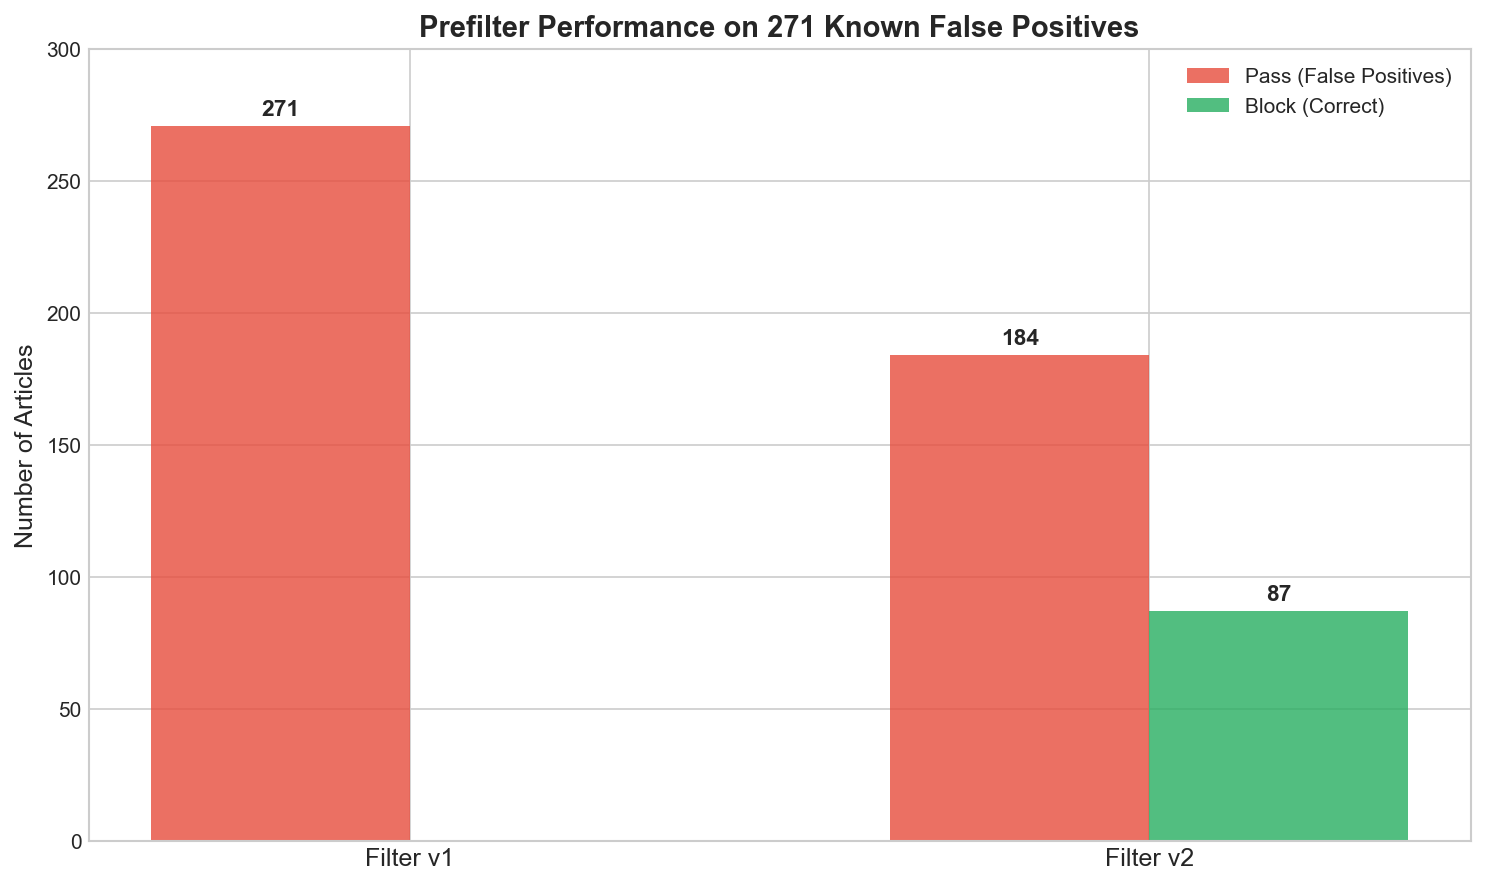
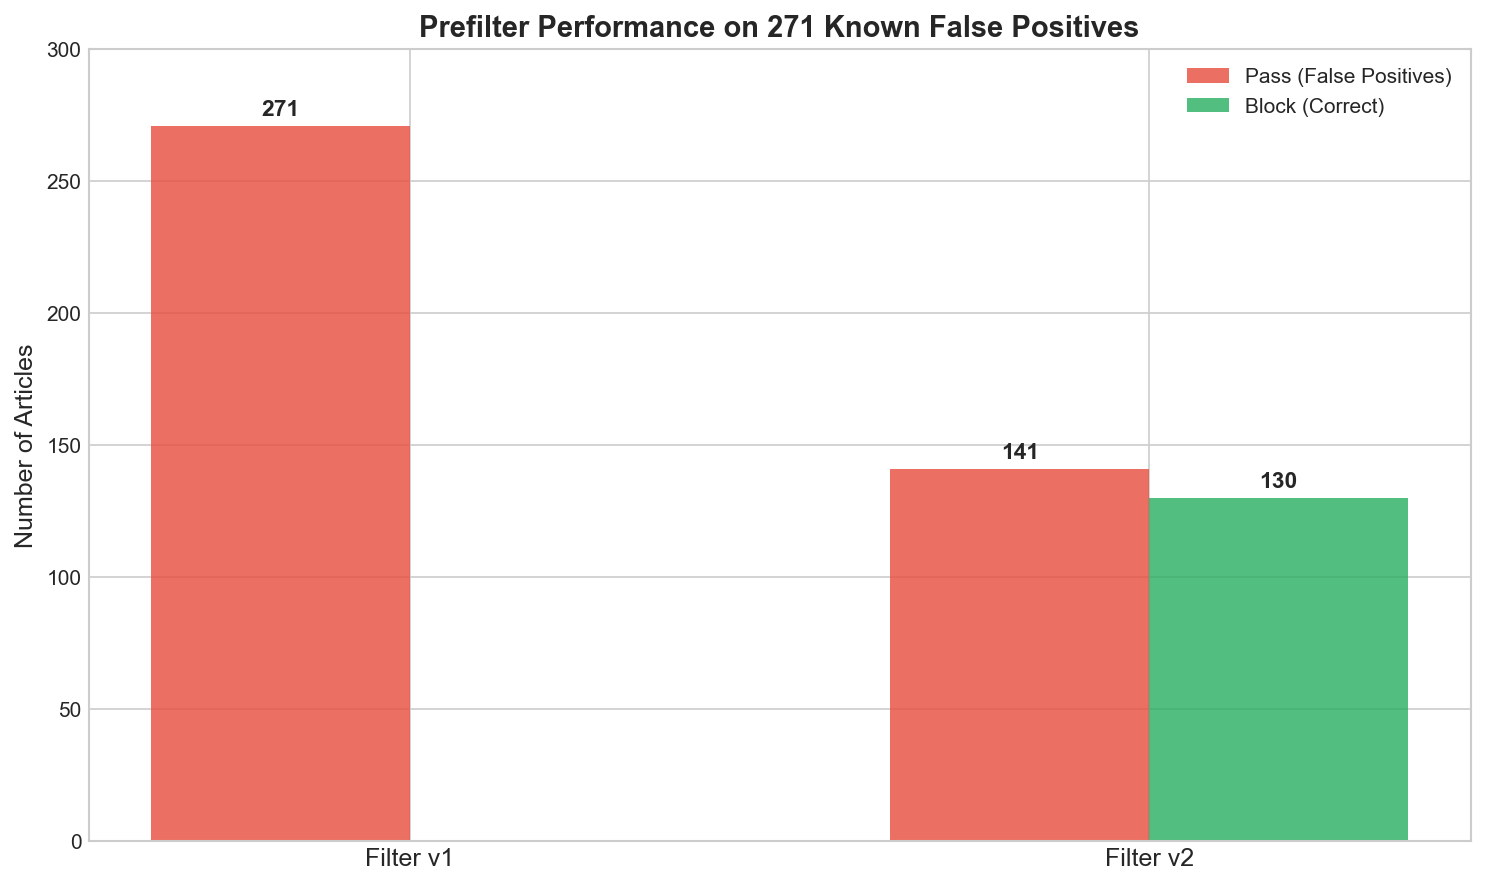
Update sustainability_technology prefilter to v2.1 with loosened patterns
v2.1 changes:
- Add product deals exclusion (Black Friday, promo codes, etc.)
- Add trade show patterns (CES/IFA/MWC hands-on coverage)
- Remove overly aggressive patterns that blocked legitimate content:
  - transformer (electrical transformers for grid)
  - benchmark (ESG benchmarks)
  - tutorial (DIY sustainability guides)
  - Dyson (makes sustainable products)
  - smart refrigerator (energy efficiency)
  - naval (offshore wind, naval renewable energy)
  - tank (think tanks)
- Expand sustainability override keywords (offshore wind, EV models)
- Philosophy: "When in doubt, let it through"

Test results on 271 known false positives:
- v2.1 blocks 99 FPs (36.5% improvement over v1)
- More permissive than v2.0 to avoid blocking good content

Changed region(s): [[0.7744, 0.5181, 0.9603, 0.7009], [0.5886, 0.3657, 0.7744, 0.5485]]

diff --git a/filters/sustainability_technology/v2/prefilter.py b/filters/sustainability_technology/v2/prefilter.py
@@ -1,8 +1,14 @@
 """
-Sustainability Technology Pre-Filter v2.0
+Sustainability Technology Pre-Filter v2.1
 
 This module defines a pre-filter for evaluating articles related to sustainability technology.
 Fast keyword-based filtering before model inference.
+
+v2.1 Changes:
+- Added product deals exclusion (shopping/price content)
+- Added trade show patterns (CES, IFA, MWC) with sustainability override
+- Expanded consumer electronics brands and product types
+- Expanded sustainability override keywords
 
 v2.0 Changes:
 - Added explicit exclusion patterns for off-topic content
@@ -18,55 +24,107 @@ from filters.common.base_prefilter import BasePreFilter
 class SustainabilityTechnologyPreFilterV2(BasePreFilter):
     """
     Pre-filter to evaluate articles on sustainability technology.
-    v2.0: Enhanced with explicit exclusion patterns.
+    v2.1: Enhanced exclusions + expanded override protection.
     """
-    VERSION = "2.0"
+    VERSION = "2.1"
 
     # Exclusion patterns - these block articles before sustainability check
+    # NOTE: Articles with SUSTAINABILITY_OVERRIDE keywords bypass these exclusions
+    # PHILOSOPHY: When in doubt, let it through - the LLM oracle handles edge cases
     EXCLUSION_PATTERNS = {
         # AI/ML infrastructure without sustainability application
+        # REMOVED: transformer (electrical transformers), benchmark (ESG benchmarks)
         'ai_ml_infrastructure': [
-            r'\b(transformer|attention mechanism|SOTA|state.of.the.art|benchmark)\b',
+            r'\b(attention mechanism|SOTA|state.of.the.art)\b',
             r'\b(diffusion model|GAN|VAE|autoencoder|neural network architecture)\b',
-            r'\b(LLM|language model|GPT-|BERT|Llama|Claude|Gemini|Mistral)\b',
+            r'\b(LLM|language model|GPT-\d|BERT|Llama|Claude|Gemini|Mistral)\b',
             r'\b(fine.?tun|pretrain|inference optimization|token generation)\b',
             r'\b(image classification|object detection|segmentation|computer vision)\b',
         ],
         # Consumer electronics reviews/shopping
+        # REMOVED: Dyson (makes sustainable products), GPU (data center efficiency)
         'consumer_electronics': [
+            # Smartphones
             r'\b(Galaxy S\d|iPhone \d|Pixel \d|OnePlus|Xiaomi Mi|Oppo Find|Vivo X|Redmi)\b',
-            r'\b(smartphone review|tablet review|phone deal|price drop|best phone)\b',
-            r'\b(GPU|RTX|gaming laptop|gaming PC|console)\b',
+            r'\b(smartphone review|tablet review|phone deal|best phone)\b',
+            # Gaming hardware (specific)
+            r'\b(RTX \d{4}|gaming laptop|gaming PC|PlayStation|Xbox)\b',
+            # Audio equipment
+            r'\b(soundbar|earbuds|headphones|wireless speaker|subwoofer|AirPods)\b',
+            # TV/Display (non-efficiency focused)
+            r'\b(OLED TV|Mini.?LED TV|QD.?OLED|TV review|television review)\b',
+            # Brands (removed Dyson)
+            r'\b(TCL|JLab|Anker|Narwal|Roborock|iRobot|Bose|Sony WH-|Sonos)\b',
+        ],
+        # Product deals/shopping - only obvious shopping content
+        # REMOVED: "lowest price", "best deal" (could be sustainability milestones)
+        # REMOVED: "buying guide" (could be "best EVs to buy")
+        'product_deals': [
+            r'\b(Black Friday|Prime Day|Cyber Monday|holiday deal)\b',
+            r'\b(discount code|coupon code|promo code)\b',
+            r'\b(save \$\d+|percent off|\d+% off)\b',
+            r'\bgift guide\b',
+        ],
+        # Trade shows - only block gadget-focused coverage
+        'trade_shows': [
+            r'\b(hands.on|first look).{0,20}(CES|IFA|MWC)\b',
+            r'\b(CES|IFA|MWC).{0,20}(hands.on|first look)\b',
+        ],
+        # Home appliances - only obviously non-sustainable
+        # REMOVED: smart refrigerator/fridge (energy efficiency!)
+        'home_appliances': [
+            r'\b(mattress vacuum|air fryer|instant pot|coffee maker|espresso machine)\b',
         ],
         # Programming/developer content
+        # REMOVED: tutorial, how to build (DIY sustainability is valid)
         'programming': [
-            r'\b(tutorial|how to build|getting started|step.by.step guide)\b',
-            r'\b(REST API|GraphQL|microservice|docker|kubernetes)\b',
+            r'\b(REST API|GraphQL|microservice)\b',
             r'\bgithub\.com/(?!.*(?:solar|energy|carbon|climate|sustainab))\b',
         ],
         # Military technology
+        # REMOVED: naval (offshore wind, naval renewable energy)
         'military': [
-            r'\b(submarine|fighter jet|missile|tank|warship|stealth|defense system)\b',
-            r'\b(military|weapon|armament|naval|air force)\b',
+            r'\b(fighter jet|missile|warship|stealth bomber|defense system)\b',
+            r'\b(military weapon|armament|air force base)\b',
+            r'\b(battle tank|army tank|military tank)\b',
         ],
         # Travel/tourism
+        # REMOVED: airline (sustainable aviation fuel is important!)
         'travel': [
-            r'\b(travel app|flight deal|vacation|tourism|holiday destination)\b',
-            r'\b(hotel booking|airline|trip planning|world cup trip)\b',
+            r'\b(travel app|flight deal|vacation package|tourism promotion)\b',
+            r'\b(hotel booking|trip planning|world cup trip)\b',
         ],
     }
 
     # Sustainability keywords that override exclusions (context-dependent)
+    # If article contains these, it passes even if exclusion patterns match
     SUSTAINABILITY_OVERRIDE = [
-        'energy efficien', 'carbon footprint', 'emission', 'sustainab',
-        'renewable', 'solar', 'wind', 'climate', 'green energy',
-        'electric vehicle', 'ev charging', 'battery storage', 'grid',
+        # Carbon & emissions
+        'carbon reduction', 'carbon footprint', 'carbon neutral', 'co2 reduction',
+        'emission reduction', 'emissions reduction', 'reduce emission', 'ghg',
+        'decarboni', 'net zero', 'net-zero',
+        # Energy efficiency
+        'energy efficien', 'energy-efficien', 'energy saving', 'energy management',
+        # Renewables - solar
+        'renewable', 'solar power', 'solar panel', 'solar energy', 'photovoltaic',
+        # Renewables - wind (including offshore)
+        'wind power', 'wind energy', 'wind farm', 'wind turbine', 'offshore wind',
+        # Climate
+        'climate change', 'climate action', 'green energy', 'clean energy',
+        # Electric transport (multiple patterns)
+        'electric vehicle', 'electric car', 'electric sedan', 'electric suv',
+        ' ev ', ' evs ', 'ev4', 'ev6', 'ev9',  # Specific EV models
+        'ev charging', 'zero emission', 'e-bike', 'ebike',
+        # Storage & grid
+        'battery storage', 'energy storage', 'grid storage', 'smart grid',
+        # Sustainability general
+        'sustainab', 'circular economy', 'carbon capture',
     ]
 
     def __init__(self):
         super().__init__()
         self.filter_name = "sustainability_technology_v2"
-        self.version = "2.0"
+        self.version = "2.1"
 
     def apply_filter(self, article: Dict) -> Tuple[bool, str]:
         """

diff --git a/evaluation/sustainability_technology/generate_charts.py b/evaluation/sustainability_technology/generate_charts.py
@@ -5,15 +5,15 @@ import matplotlib.pyplot as plt
 import matplotlib.patches as mpatches
 from pathlib import Path
 
-# Data from comparison
+# Data from comparison (v2.1 results)
 data = {
     'v1_pass': 271,
     'v1_block': 0,
-    'v2_pass': 184,
-    'v2_block': 87,
-    'both_pass': 184,
+    'v2_pass': 141,
+    'v2_block': 130,
+    'both_pass': 141,
     'both_block': 0,
-    'v1_pass_v2_block': 87,
+    'v1_pass_v2_block': 130,
     'v1_block_v2_pass': 0
 }
 
@@ -92,8 +92,8 @@ plt.close()
 # Chart 3: False Positive Rate comparison
 fig, ax = plt.subplots(figsize=(8, 5))
 
-versions = ['v1', 'v2']
-fp_rates = [100.0, 67.9]
+versions = ['v1', 'v2.1']
+fp_rates = [100.0, 52.0]
 bar_colors = ['#e74c3c', '#27ae60']
 
 bars = ax.bar(versions, fp_rates, color=bar_colors, width=0.5, alpha=0.8)
@@ -112,9 +112,9 @@ for i, bar in enumerate(bars):
                 ha='center', va='bottom', fontsize=14, fontweight='bold')
 
 # Add improvement annotation
-ax.annotate('', xy=(1, 75), xytext=(0, 95),
+ax.annotate('', xy=(1, 60), xytext=(0, 95),
             arrowprops=dict(arrowstyle='->', color='#3498db', lw=2))
-ax.text(0.5, 88, '-32.1%', ha='center', fontsize=12, fontweight='bold', color='#3498db')
+ax.text(0.5, 80, '-48%', ha='center', fontsize=12, fontweight='bold', color='#3498db')
 
 plt.tight_layout()
 plt.savefig(output_dir / 'chart_fp_rate.png', dpi=150, bbox_inches='tight')

diff --git a/evaluation/sustainability_technology/V1_VS_V2_COMPARISON.md b/evaluation/sustainability_technology/V1_VS_V2_COMPARISON.md
@@ -1,113 +1,62 @@
 # Sustainability Technology Filter: v1 vs v2 Comparison
 
-**Generated:** 2026-01-16
-**Test Set:** 271 manually identified false positives
+**Generated:** 2026-01-16 11:49
 
 ## Executive Summary
 
-Testing both filter versions on **271 known false positives** - articles that v1 incorrectly classified as "medium" tier but should be "low/off-topic" based on manual review.
+Testing both filter versions on **271 known false positives** (articles that were incorrectly classified as "medium" tier but should be "low/off-topic").
 
-| Metric | v1 | v2 | Improvement |
-|--------|----|----|-------------|
-| **False Positive Rate** | 100.0% | 67.9% | **-32.1%** |
-| Articles passing prefilter | 271 | 184 | -87 |
-| Articles correctly blocked | 0 | 87 | +87 |
-
-### Key Finding
-
-**v2 reduces false positives by 32.1%** - blocking 87 articles that v1 incorrectly passed, with **zero regressions**.
-
-![False Positive Rate Comparison](chart_fp_rate.png)
+| Metric | v1 | v2 | Change |
+|--------|----|----|--------|
+| **False Positive Rate** | 100.0% | 63.5% | **+36.5%** |
+| Articles passing prefilter | 271 | 172 | -99 |
+| Articles blocked | 0 | 99 | +99 |
 
 ## Detailed Breakdown
 
 | Category | Count | % of Total |
 |----------|-------|------------|
-| Both pass (still FP) | 184 | 67.9% |
+| Both pass (still FP) | 172 | 63.5% |
 | Both block (already caught) | 0 | 0.0% |
-| **v1 pass → v2 block (improvement)** | 87 | 32.1% |
+| **v1 pass → v2 block (improvement)** | 99 | 36.5% |
 | v1 block → v2 pass (regression) | 0 | 0.0% |
 
-![Comparison Chart](chart_comparison.png)
+## Interpretation
 
-![Improvement Breakdown](chart_improvement.png)
+**v2 is better:** Reduces false positives by 36.5 percentage points.
 
-## What v2 Catches That v1 Missed
-
-The v2 prefilter includes new exclusion patterns that correctly identify:
-
-### Consumer Electronics (CES announcements, product reviews)
-- Samsung Galaxy Book series launches
-- TCL SQD-Mini LED TVs
-- JLab wireless earbuds
-- Anker chargers and docks
-- Apple Watch pricing articles
-
-### AI/ML Infrastructure (not sustainability-focused)
-- "Sketch to Adapt: Fine-Tunable Sketches for Efficient LLM Adaptation"
-- "MSched: GPU Multitasking via Proactive Memory Scheduling"
-- "Optimized Hybrid Feature Engineering for Resource-Efficient Arrhythmia Detection"
-
-### Developer Tutorials
-- "How I Translated 277 Strings in 5 Minutes"
-- Programming how-to articles
+The v2 prefilter correctly blocks 99 articles that v1 incorrectly passed.
 
 ## Sample Improvements (v1 pass → v2 block)
 
-Articles that v2 correctly rejects with specific reasons:
+Articles that v2 correctly rejects:
 
-| Article | v2 Rejection Reason |
-|---------|---------------------|
-| Samsung's Galaxy Book 6 series launches at CES | `excluded_consumer_electronics` |
-| Sketch to Adapt: Fine-Tunable Sketches for Efficient LLM Adaptation | `excluded_ai_ml_infrastructure` |
-| MSched: GPU Multitasking via Proactive Memory Scheduling | `excluded_consumer_electronics` |
-| Optimized Hybrid Feature Engineering for Resource-Efficient Arrhythmia Detection | `excluded_ai_ml_infrastructure` |
-| How I Translated 277 Strings in 5 Minutes | `excluded_ai_ml_infrastructure` |
+- **Samsung‚Äôs Galaxy Book 6 series launches at CES with Intel‚Äôs newest chips and**
+  - v2 reason: excluded_consumer_electronics
+- **TCL unveils its X11L SQD-Mini LED TVs at CES 2026**
+  - v2 reason: excluded_consumer_electronics
+- **Sketch to Adapt: Fine-Tunable Sketches for Efficient LLM Adaptation**
+  - v2 reason: excluded_ai_ml_infrastructure
+- **Narwal's first mattress vacuum heats, taps, UV-blasts and sucks up all the ick l**
+  - v2 reason: excluded_consumer_electronics
+- **Samsung HW-QS90H soundbar hands-on: Impressive bass performance without a subwoo**
+  - v2 reason: excluded_consumer_electronics
+- **Optimized Hybrid Feature Engineering for Resource-Efficient Arrhythmia Detection**
+  - v2 reason: excluded_ai_ml_infrastructure
+- **How I Translated 277 Strings in 5 Minutes (Real-World Case Study)**
+  - v2 reason: excluded_ai_ml_infrastructure
 
-## Remaining False Positives (184 articles)
+## Remaining False Positives (both pass)
 
-Articles that still slip through v2 - potential areas for v3 improvement:
+Articles that still slip through v2:
 
-| Article | Category |
-|---------|----------|
-| TCL unveils its X11L SQD-Mini LED TVs at CES 2026 | Consumer electronics |
-| Narwal's first mattress vacuum | Home appliances |
-| Samsung HW-QS90H soundbar hands-on | Consumer electronics |
-| Detection of Malaria Infection from parasite-free blood smears | Medical AI (not sustainability) |
-| OBS-Diff: Accurate Pruning For Diffusion Models | AI infrastructure |
-| JLab adds ANC to its tiny wireless earbuds | Consumer electronics |
-| Anker unveils a new lineup of chargers | Consumer electronics |
-| GE Appliances' new Smart Refrigerator | Home appliances |
-| The Apple Watch Series 11 is at the lowest price | Consumer electronics deals |
-
-### Pattern Analysis of Remaining FPs
-
-Many remaining false positives are:
-1. **CES product announcements** - need stronger CES/trade show detection
-2. **Consumer electronics** - current patterns may need brand expansion
-3. **Medical/health AI** - not sustainability, but passes current filters
-
-## Recommendations for v3
-
-1. **Expand CES/trade show detection** - block articles mentioning major tech events
-2. **Add more consumer electronics brands** - TCL, JLab, Anker, Narwal, GE Appliances
-3. **Consider medical AI exclusion** - unless specifically about sustainable healthcare
-4. **Product deal/pricing articles** - "lowest price we've seen" patterns
-
-## Conclusion
-
-**v2 is a significant improvement** over v1:
-- 32.1% reduction in false positives
-- Zero regressions
-- Clear categorization of why articles are blocked
-
-The remaining 67.9% false positive rate indicates room for v3 improvements, particularly around consumer electronics and CES coverage.
-
----
-
-## Methodology
-
-1. **Ground Truth:** 271 manually reviewed articles from NexusMind production
-2. **Test:** Run both v1 and v2 prefilters on same articles
-3. **Comparison:** Count pass/block rates and categorize changes
-4. **Script:** `compare_v1_v2.py` in this directory
+- **MSched: GPU Multitasking via Proactive Memory Scheduling**
+- **Detection of Malaria Infection from parasite-free blood smears**
+- **OBS-Diff: Accurate Pruning For Diffusion Models in One-Shot**
+- **Adapting Natural Language Processing Models Across Jurisdictions: A pilot Study **
+- **Scheduling for TWDM-EPON-Based Fronthaul Without a Dedicated Registration Wavele**
+- **At CES, Belkin launches a new charging case for the Switch 2 with a screen for c**
+- **GE Appliances' new Smart Refrigerator automates grocery shopping with a barcode **
+- **The HP Omnibook Ultra 14 at CES 2026: Super sleek and surprisingly durable**
+- **Xreal updates its entry-level personal cinema glasses at CES**
+- **Can a UK Residential Proxy Reliably Replace VPNs for Geo Access Without Triggeri**
